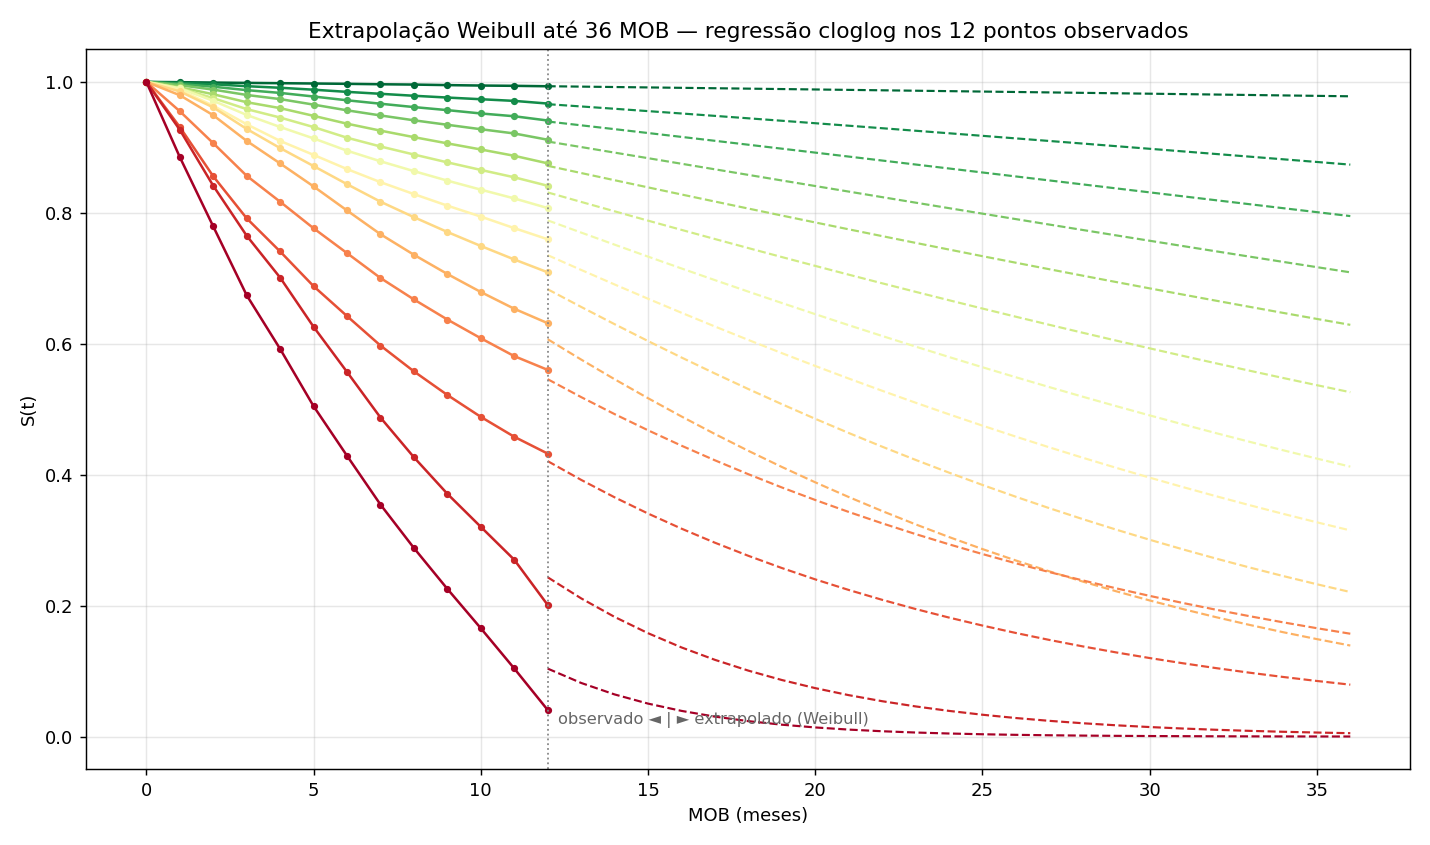
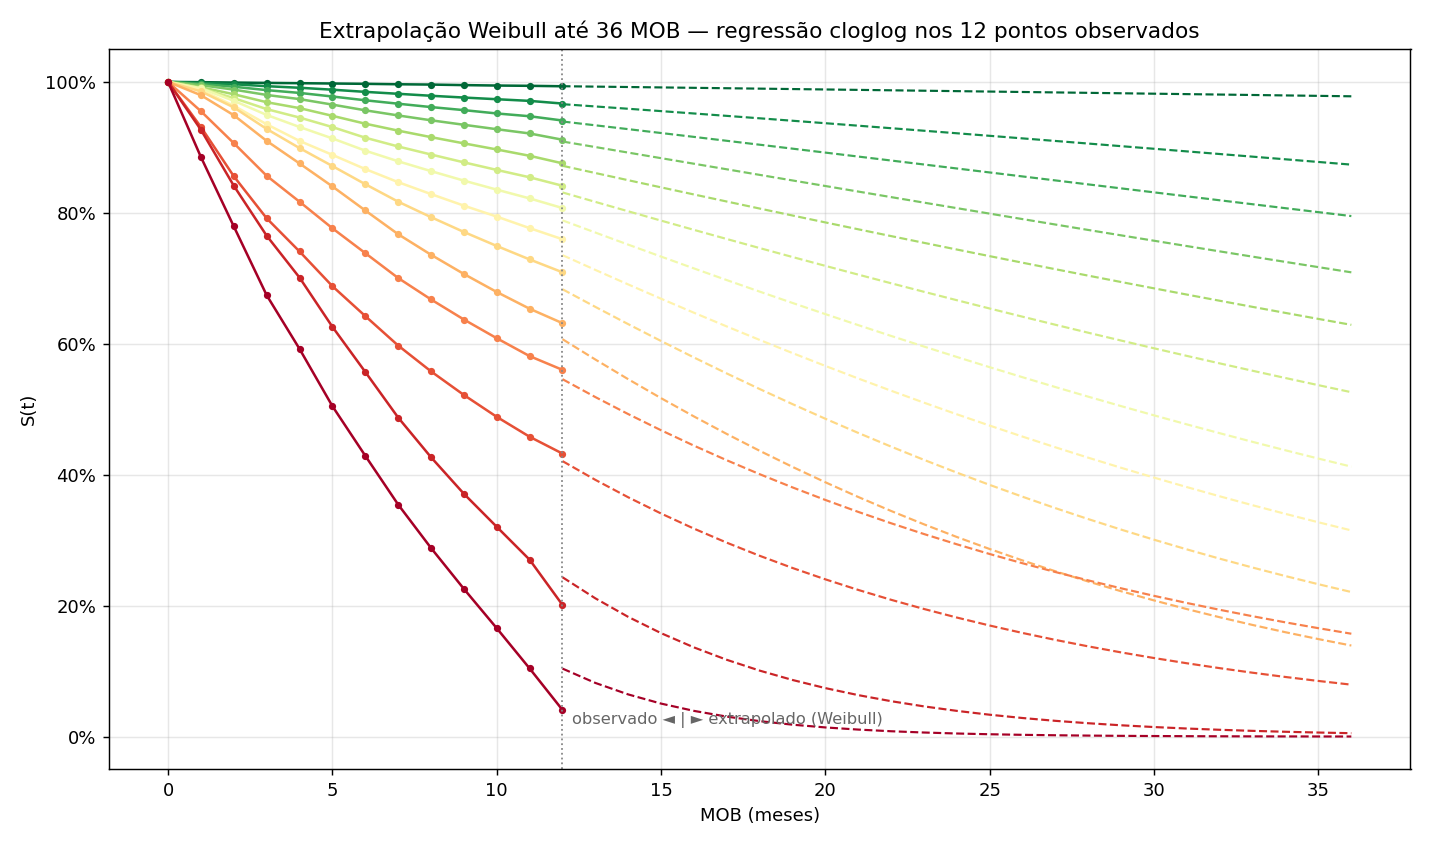
fig(2124): eixos fracionários em % nas figuras de sobrevivência e calibração
- sobrevivencia_mob_2124.py: PercentFormatter no eixo Y (KM categorias e
  extrapolação Weibull)
- fig_modelo_2124.py: PercentFormatter nos eixos X e Y da calibração
- PNGs regenerados

diff --git a/fig_modelo_2124.py b/fig_modelo_2124.py
@@ -11,6 +11,7 @@ import os, shutil
 import numpy as np, pandas as pd
 import matplotlib; matplotlib.use("Agg")
 import matplotlib.pyplot as plt
+from matplotlib.ticker import PercentFormatter
 
 ART = "outputs/runpod_retreino_2124"
 FIG = "outputs/figures"; os.makedirs(FIG, exist_ok=True)
@@ -31,6 +32,8 @@ for _, r in cal.iterrows():
     ax.annotate(f"{r.n/1e6:.1f}M", (r.prevista, r.observada), fontsize=7, color="#888",
                 xytext=(4, -8), textcoords="offset points")
 ax.set_xlabel("Risco previsto (média do decil)"); ax.set_ylabel("Risco observado (freq. real)")
+ax.xaxis.set_major_formatter(PercentFormatter(xmax=1, decimals=0))
+ax.yaxis.set_major_formatter(PercentFormatter(xmax=1, decimals=0))
 ax.set_title("Calibração — ensemble 2021–24 (out-of-time 2025)")
 ax.legend(); ax.grid(alpha=.3)
 fig.tight_layout(); salva(fig, "calibracao_ensemble_2124.png")

diff --git a/sobrevivencia_mob_2124.py b/sobrevivencia_mob_2124.py
@@ -176,6 +176,7 @@ import matplotlib
 matplotlib.use("Agg")
 import matplotlib.pyplot as plt
 from matplotlib import cm, colors as mcolors
+from matplotlib.ticker import PercentFormatter
 ks = sorted(km["categoria"].unique())
 cmap = matplotlib.colormaps["RdYlGn_r"]; norm = mcolors.Normalize(vmin=min(ks), vmax=max(ks))
 cor = {k: cmap(norm(k)) for k in ks}
@@ -185,6 +186,7 @@ for k in ks:
     g = km[km.categoria == k].sort_values("mob")
     ax.plot(g.mob, g.S, marker="o", ms=3.5, lw=1.6, color=cor[k], label=f"{k}")
 ax.set_xlabel("MOB — meses desde a entrada"); ax.set_ylabel("S(t) = P(seguir empregado)")
+ax.yaxis.set_major_formatter(PercentFormatter(xmax=1, decimals=0))
 ax.set_title("Sobrevivência por categoria (KM, relógio MOB) — referência 2021–2024, 14 categorias")
 ax.grid(alpha=.3); ax.legend(title="cat", ncol=2, fontsize=8)
 fig.tight_layout(); fig.savefig("/tmp/skm2124.png", dpi=130)
@@ -201,6 +203,7 @@ for k in ks:
 ax.axvline(H, color="#888", ls=":", lw=1)
 ax.text(H + .3, .02, "observado ◄ | ► extrapolado (Weibull)", fontsize=9, color="#666")
 ax.set_xlabel("MOB (meses)"); ax.set_ylabel("S(t)")
+ax.yaxis.set_major_formatter(PercentFormatter(xmax=1, decimals=0))
 ax.set_title("Extrapolação Weibull até 36 MOB — regressão cloglog nos 12 pontos observados")
 ax.grid(alpha=.3)
 fig.tight_layout(); fig.savefig("/tmp/swb2124.png", dpi=130)